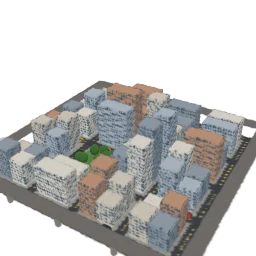
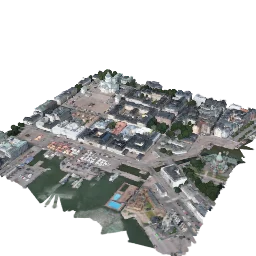
Geo r3: thumbnails for the city and the storks; handoff READY
Claude-Session: https://claude.ai/code/session_01JtJ2qB2aaMykwjGSF5ixB4

diff --git a/docs/handoff/Geo.md b/docs/handoff/Geo.md
@@ -9,10 +9,11 @@ port 4173 (no `SPLASHERY_PORT`), messages arrive in your session as "From the Op
 comments), you finish every working turn with a final message that starts "READY:", "WORKING:" or
 "BLOCKED:" (and keep the same line at the top of "## State
 
-WORKING (October 5, 2026, round 3 on `claude/lane-geo-r2`): the owner's marks of 22:48 UTC. Good:
-Grand Canyon r3, hurricane r2, relief map r2, sea floor r2. Fixed in round 3 (below): the living
-city (Helsinki's reality mesh), the earthquakes, St. Helens' plume, the storks and the tide meter.
-Left: the -r3/-r4 clips on Effect review page 2, the tests, then the PR. Model: Opus 5.5.
+READY (October 6, 2026, round 3 on `claude/lane-geo-r2`, a draft PR stacked on #268): the owner's
+marks of 22:48 UTC. Good: Grand Canyon r3, hurricane r2, relief map r2, sea floor r2. Fixed in round
+3 (below) and posted as cards `geo-living-city-r3`, `geo-earthquakes-r4`, `geo-st-helens-r4`,
+`geo-stork-migration-r4` and `geo-tide-harbor-r4` on Effect review page 2. Once #268 merges: merge
+main into the branch and point the PR at main. Model: Opus 5.5.
 
 ### Round 3: what changed (the owner's marks of October 5, 2026)
 
